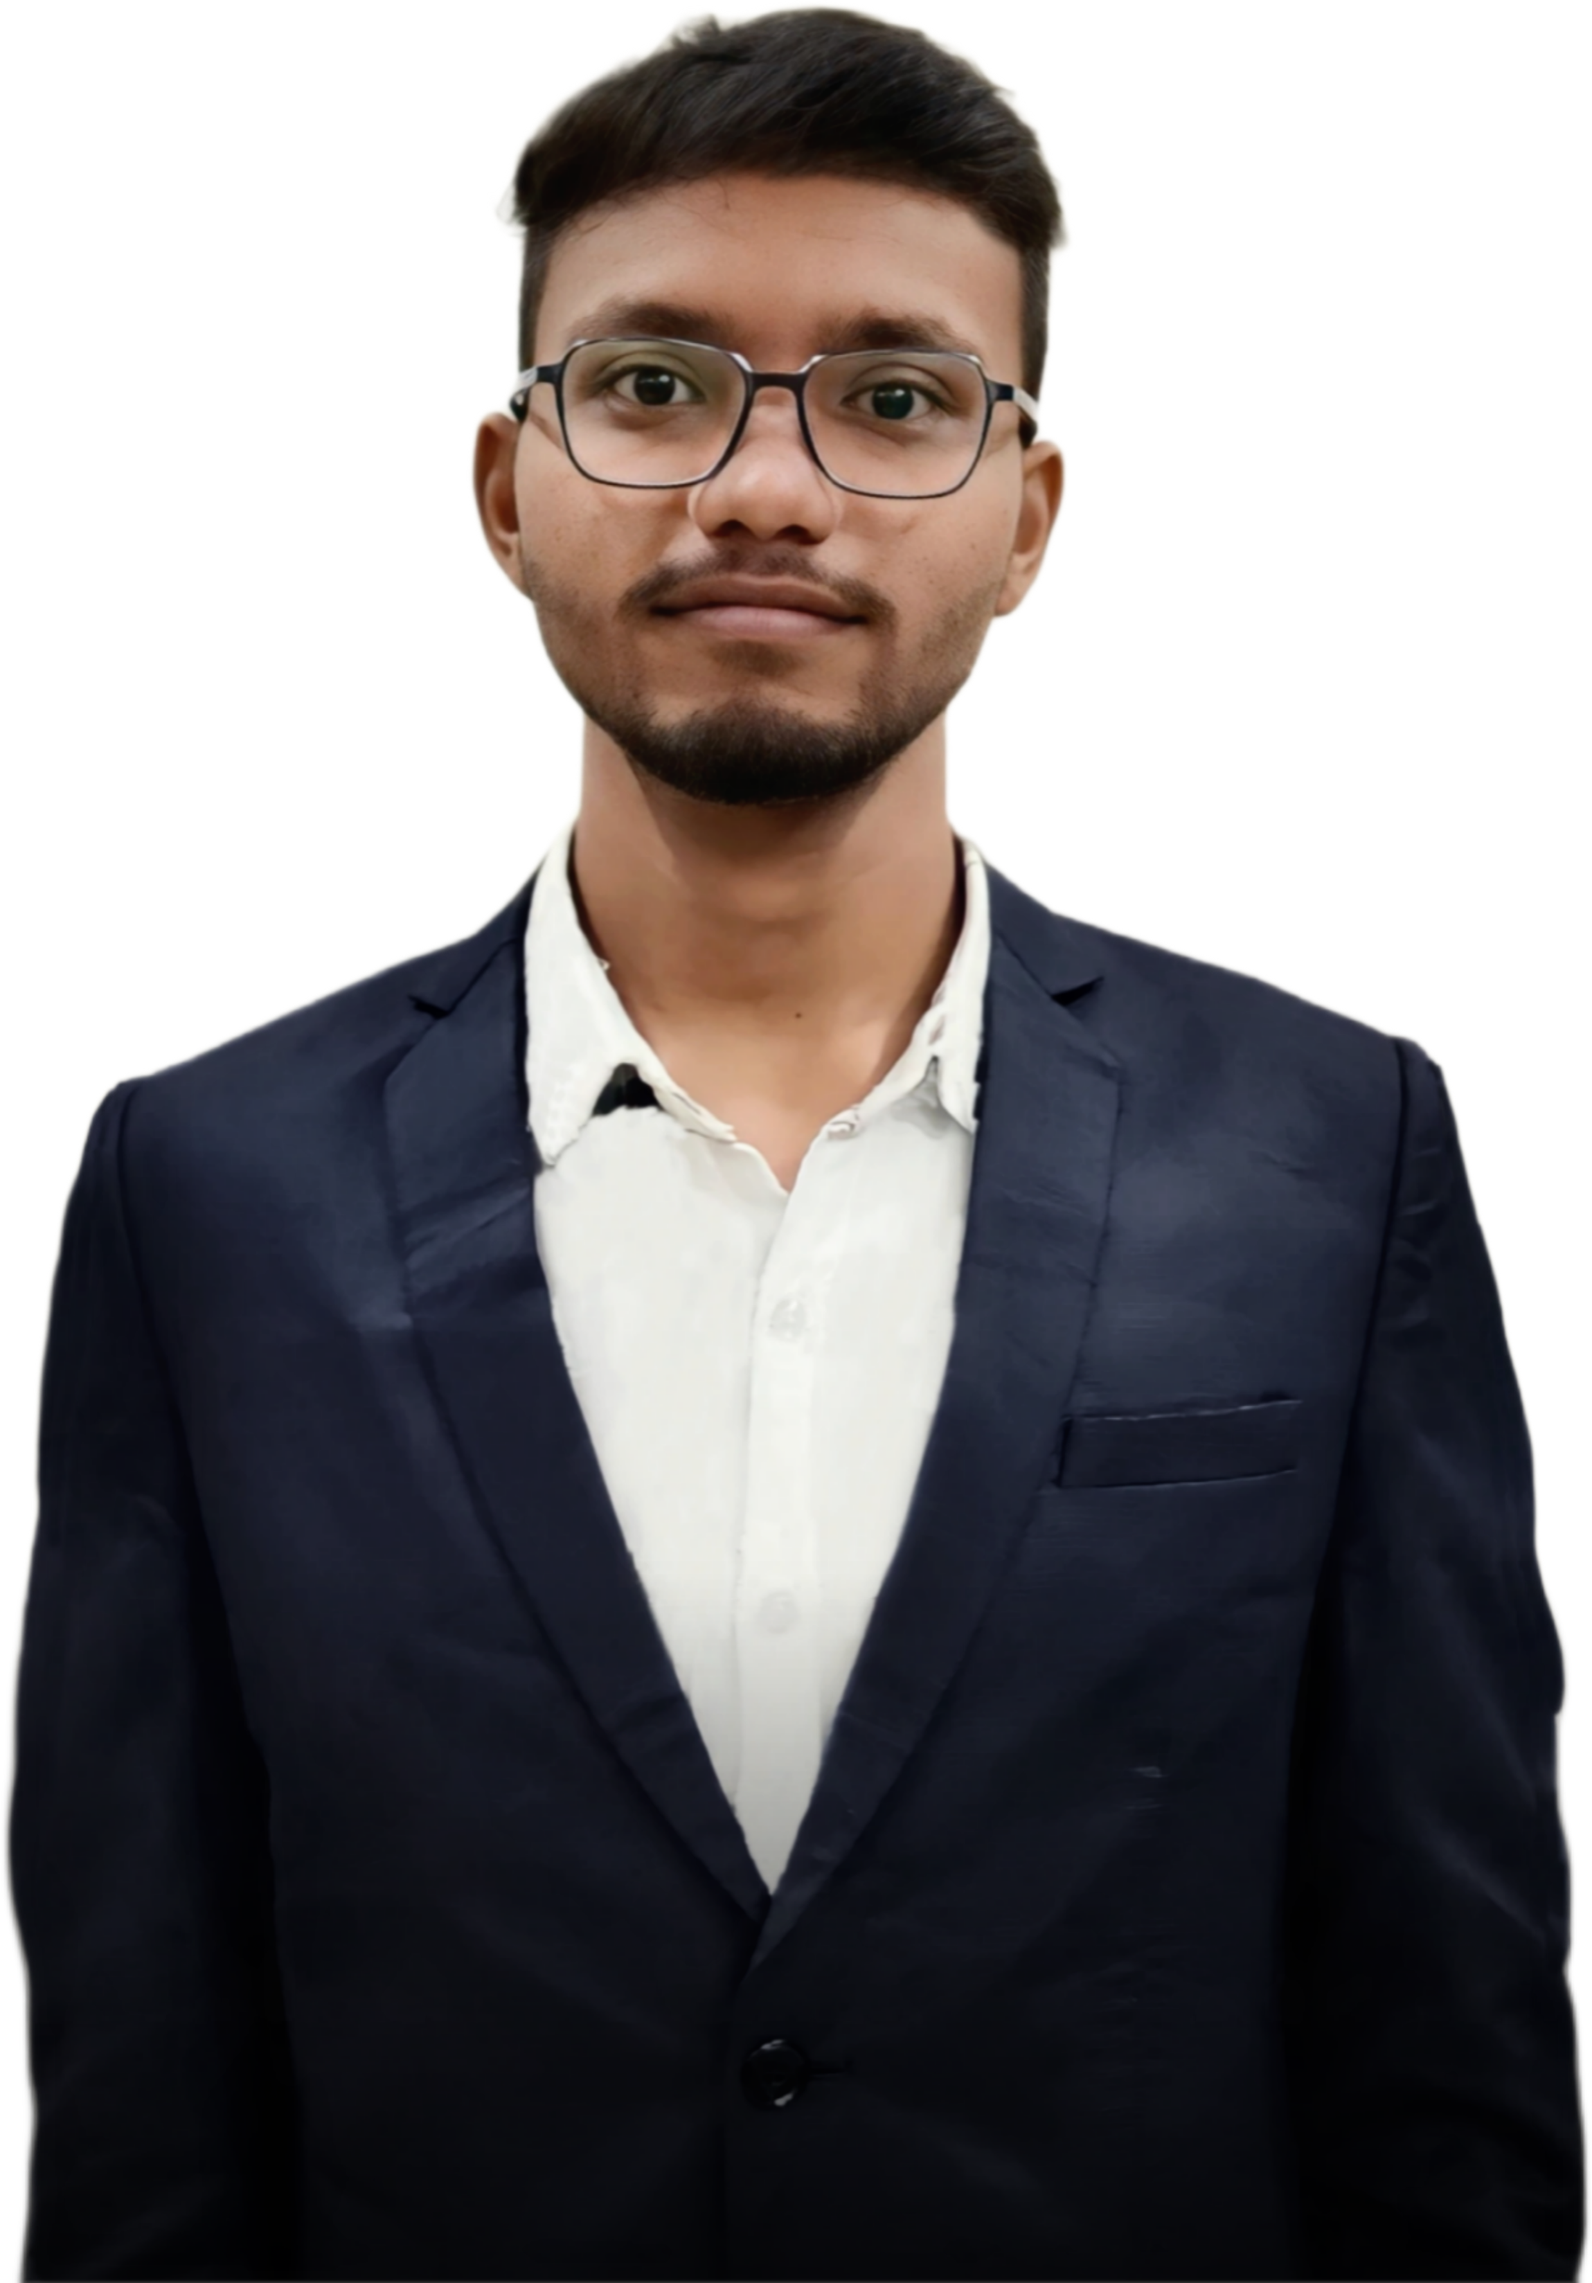
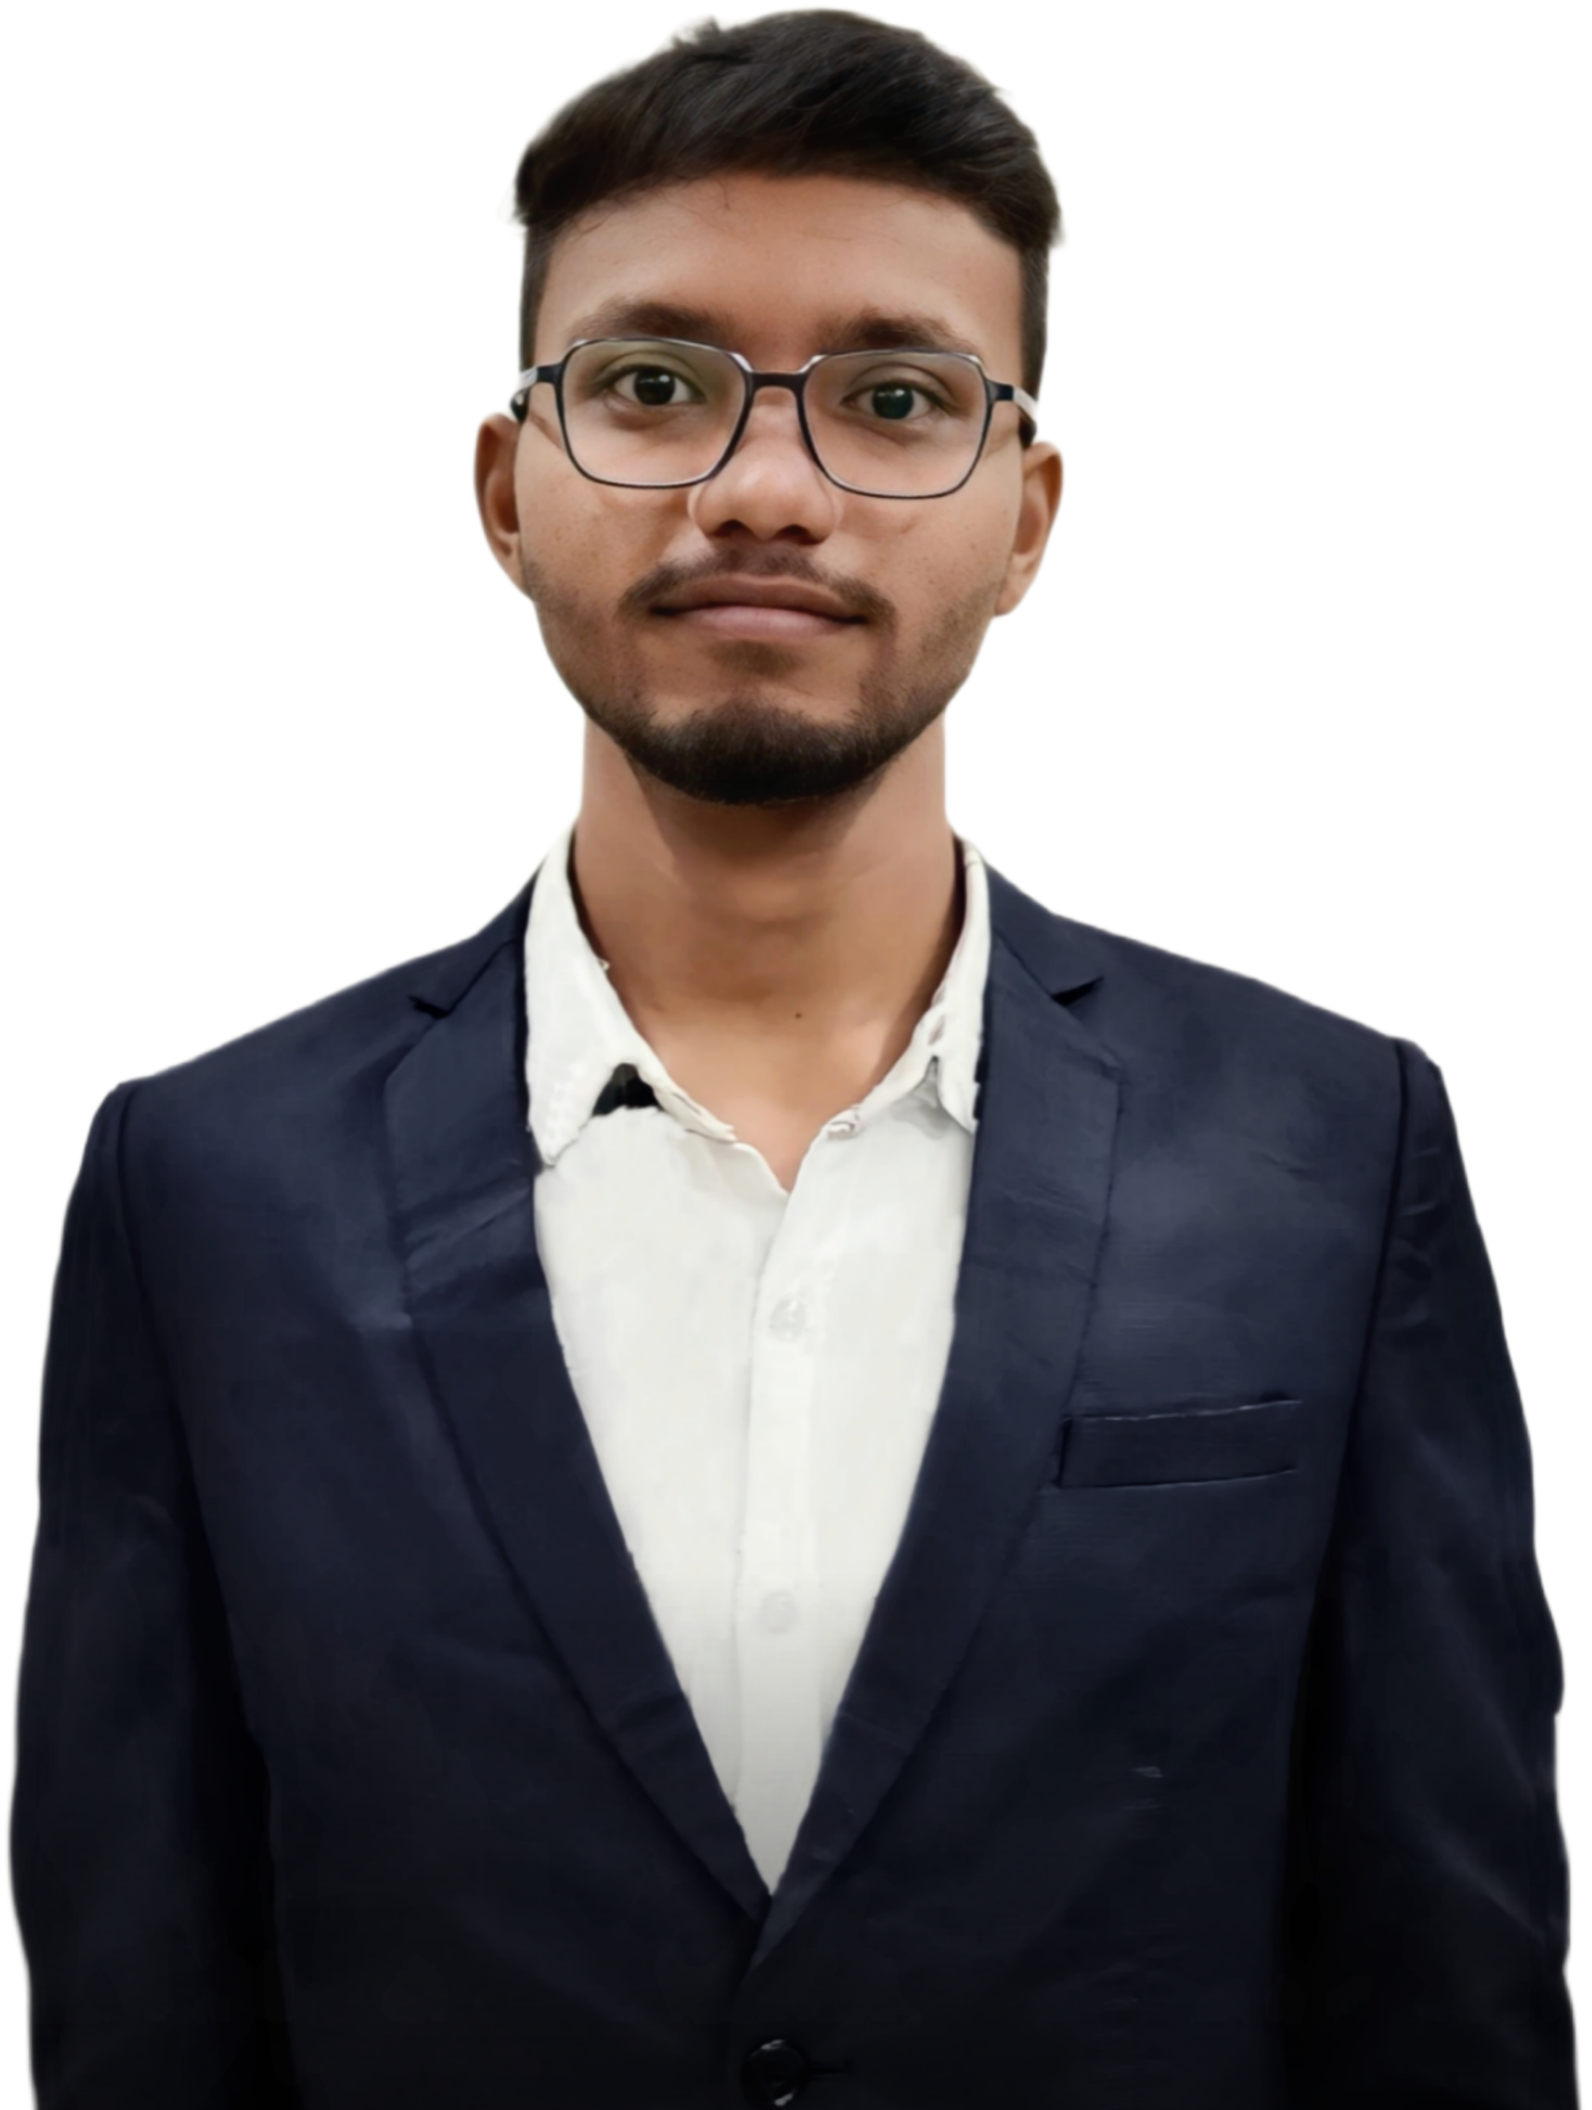
used img instead of Image

diff --git a/app/page.tsx b/app/page.tsx
@@ -7,8 +7,6 @@ import About from "./components/about-me";
 import Skills from "./components/skills";
 import { BentoGrid, BentoGridItem } from "./components/ui/project-grid";
 import Footer from "./components/Footer";
-import Image from 'next/image';
-
 export default function Home() {
   const aboutRef = useRef<HTMLDivElement>(null);
   const [aboutHeight, setAboutHeight] = useState<number>(0);
@@ -22,24 +20,25 @@ export default function Home() {
 
   return (
     <main className="flex min-h-screen w-full flex-col items-center relative">
-      <div className="rounded-xl w-full sm:text-5xl tracking-widest font-mono text-4xl sm:h-32 z-10 items-center justify-center relative">
-        <AuroraBackground>ANURAG GADDAMWAR
-        {typeof window !== 'undefined' && (
-        <Image 
-          src="/AnuragPhoto.png" 
-          alt="Anurag Gaddamwar" 
-          className="block sm:hidden h-32 max-w-full object-cover absolute top-1/2 transform -translate-y-1/2 right-4" 
-          style={{ display: window.innerWidth <= 400 ? 'block' : 'none' }}
-        />
-        )}
-        </AuroraBackground>
-        {/* Photo for small screens */}
-        
-      </div>
+<div className="rounded-xl w-full sm:text-5xl tracking-widest font-mono text-4xl sm:h-32 z-10 items-center justify-center relative">
+  <AuroraBackground>
+    ANURAG GADDAMWAR
+    {typeof window !== 'undefined' && (
+      // eslint-disable-next-line @next/next/no-img-element
+      <img 
+        src="/AnuragPhoto.png" 
+        alt="Anurag Gaddamwar" 
+        className="block sm:hidden h-32 max-w-full object-cover absolute top-[5.19rem] transform -translate-y-1/2 right-4" 
+        style={{ display: window.innerWidth <= 400 ? 'block' : 'none' }}
+      />
+    )}
+  </AuroraBackground>
+</div>
+
       <TextRevealCard text="Web Developer" revealText="Web Designer" />
       <div className="mt-8">
         <TracingBeam {...{ svgHeight: aboutHeight }}>
-          <About/>
+          <About />
           <Skills />
           <h1 className="text-sky-300 font-mono tracking-widest mt-10 text-2xl md:text-3xl mx-10 mb-10">Projects</h1>
           <BentoGrid>
@@ -66,7 +65,7 @@ export default function Home() {
                   <p className="text-sm text-justify">
                   Cypher AI is a platform where job seekers can enhance their interview preparation and resume quality by receiving personalized feedback and guidance. The platform integrates the Gemini API to implement an interactive chatbot that provides responses and guidance for technical and interpersonal interview questions. Additionally, Cypher AI includes a resume analysis feature that accepts job roles and resumes in PDF or image format. This feature extracts text from uploaded documents and evaluates resumes against specific job roles, offering detailed feedback such as ATS compatibility scores, structure analysis, and content relevance scores.
                   <br/><br/>As a result, Cypher AI empowers job seekers with tailored interview practice and resume enhancement suggestions, significantly increasing their chances of success in the job application process. 
-                  <br/><br/><span className="font-semibold">Tech Stack:</span> Next.js, React.js, OCR, Express.js, react-markdown, WebKitSpeech API, Node.js, MongoDB, Gemini API.
+                  <br/><br/><span className="font-semibold">Tech Stack:</span> Next.js, React.js, react-markdown, WebKitSpeech API, OCR, Express.js, Node.js, MongoDB, Gemini API.
                   </p>
                 </>
               }
@@ -104,6 +103,8 @@ export default function Home() {
             />
           </BentoGrid>
         </TracingBeam>
+        
+
       </div>
       <Footer />
     </main>

diff --git a/app/components/ui/project-grid.tsx b/app/components/ui/project-grid.tsx
@@ -4,7 +4,6 @@ import { FaTimes } from 'react-icons/fa';
 import { motion, AnimatePresence } from 'framer-motion';
 import { Carousel } from 'react-responsive-carousel';
 import 'react-responsive-carousel/lib/styles/carousel.min.css';
-import Image from 'next/image';
 
 interface CarouselItem {
   image: string;
@@ -105,7 +104,7 @@ export const BentoGridItem = ({
               {title}
             </div>
           </div>
-          {image && <Image src={image} alt={`${title} logo`} className="w-10 h-10 rounded-full" />}
+          {image && <img src={image} alt={`${title} logo`} className="w-10 h-10 rounded-full" />}
         </div>
         <div className="font-mono ml-2 font-normal text-neutral-600 text-sm dark:text-neutral-300">
           {description}
@@ -117,7 +116,7 @@ export const BentoGridItem = ({
     <Carousel showArrows={true} showThumbs={false}> 
       {carouselItems.map((item, index) => (
         <div key={index}>
-          <Image style={{ width: '100%'}} src={item.image} alt={`Image ${index + 1}`} />
+          <img style={{ width: '100%'}} src={item.image} alt={`Image ${index + 1}`} />
           {/* <p className="legend hidden  sm:block">{item.caption}</p> */}
         </div>
       ))}
@@ -143,13 +142,14 @@ export const BentoGridItem = ({
               layout
               className="bg-black border-[0.01px] dark:bg-gray-800 rounded-lg p-8 w-11/12 md:w-2/3 lg:w-1/2 xl:w-1/3 relative"
             >
-              <button onClick={togglePopup}
+              <button
+                onClick={togglePopup}
                 className="absolute top-4 right-4 text-gray-500 hover:text-gray-300 dark:hover:text-gray-100"
               >
                 <FaTimes />
               </button>
               <div className="flex flex-col items-center">
-                {image && <Image src={image} alt={`${title} image`} className="mb-4 rounded-lg w-20" />}
+                {image && <img src={image} alt={`${title} image`} className="mb-4 rounded-lg w-20" />}
                 <h2 className="text-2xl font-bold mb-4 text-white">{title}</h2>
                 <div className="text-sm text-slate-400">{detailedDescription}</div>
               </div>

diff --git a/app/components/ui/text-reveal-card.tsx b/app/components/ui/text-reveal-card.tsx
@@ -125,7 +125,7 @@ export const TextRevealCard = ({
       </div>
 
       {/* Icons section */}
-<div className="flex justify-center mt-4 space-x-4">
+<div className="flex justify-center sm:mt-4 space-x-4">
   <a href="https://www.linkedin.com/in/anurag-gaddamwar/" title= "LinkedIn" target="_blank" rel="noopener noreferrer">
     <FaLinkedin size="2x" className="text-white w-4 hover:text-[#0e76a8]" /> 
   </a>
